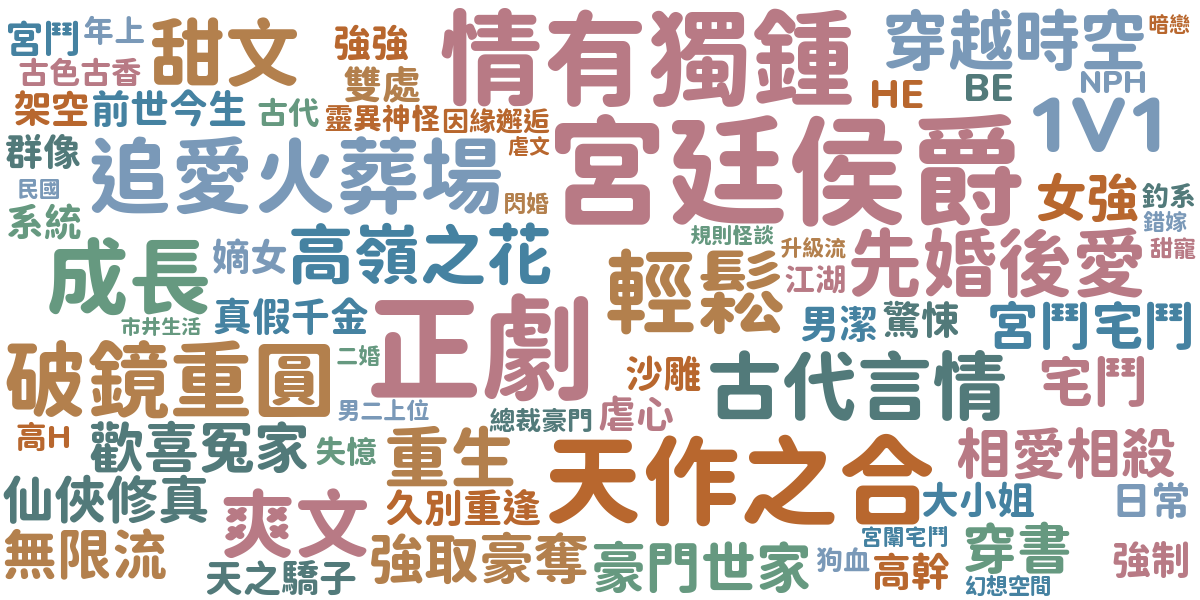
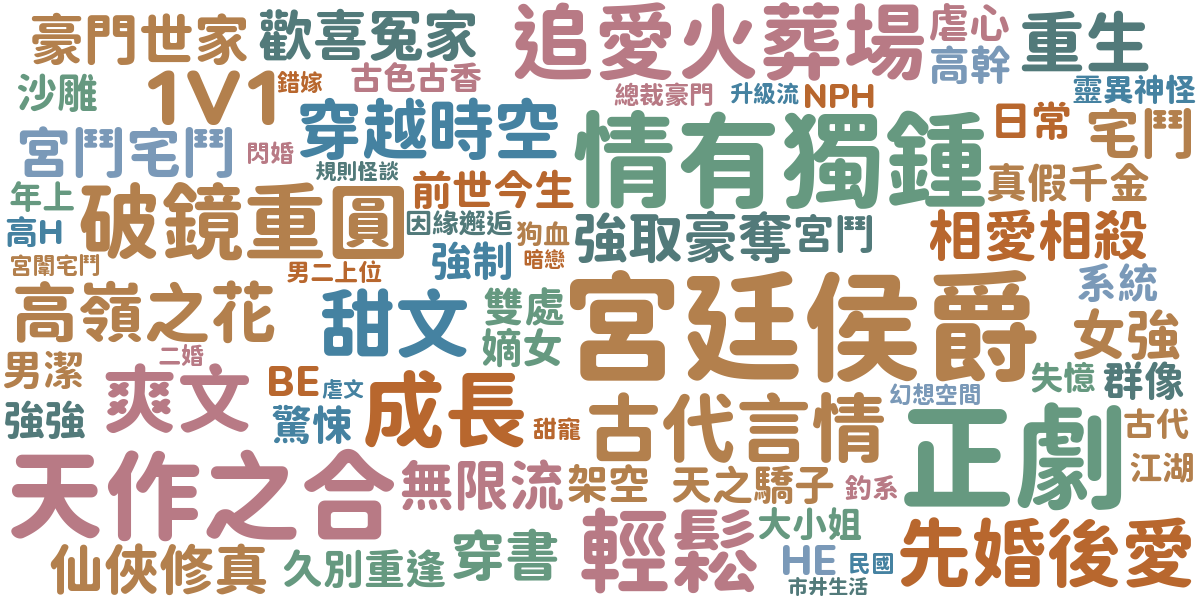
☁ Update reading word cloud via GitHub Actions

diff --git a/public/word_cloud.html b/public/word_cloud.html
@@ -23,6 +23,6 @@
     </style>
 </head>
 <body>
-    <img src="word_cloud.png?t=1775694782" alt="Word Cloud">
+    <img src="word_cloud.png?t=1775781546" alt="Word Cloud">
 </body>
 </html>
